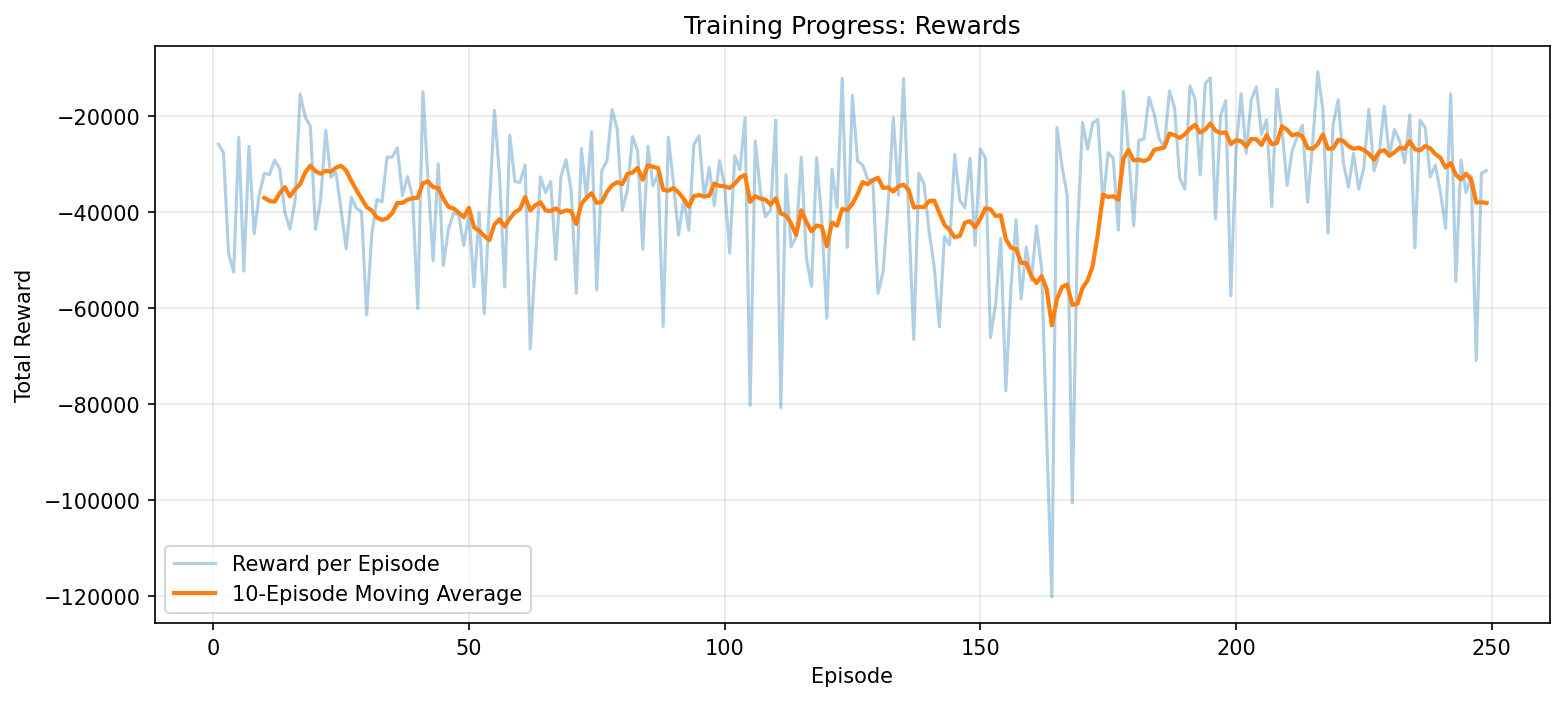
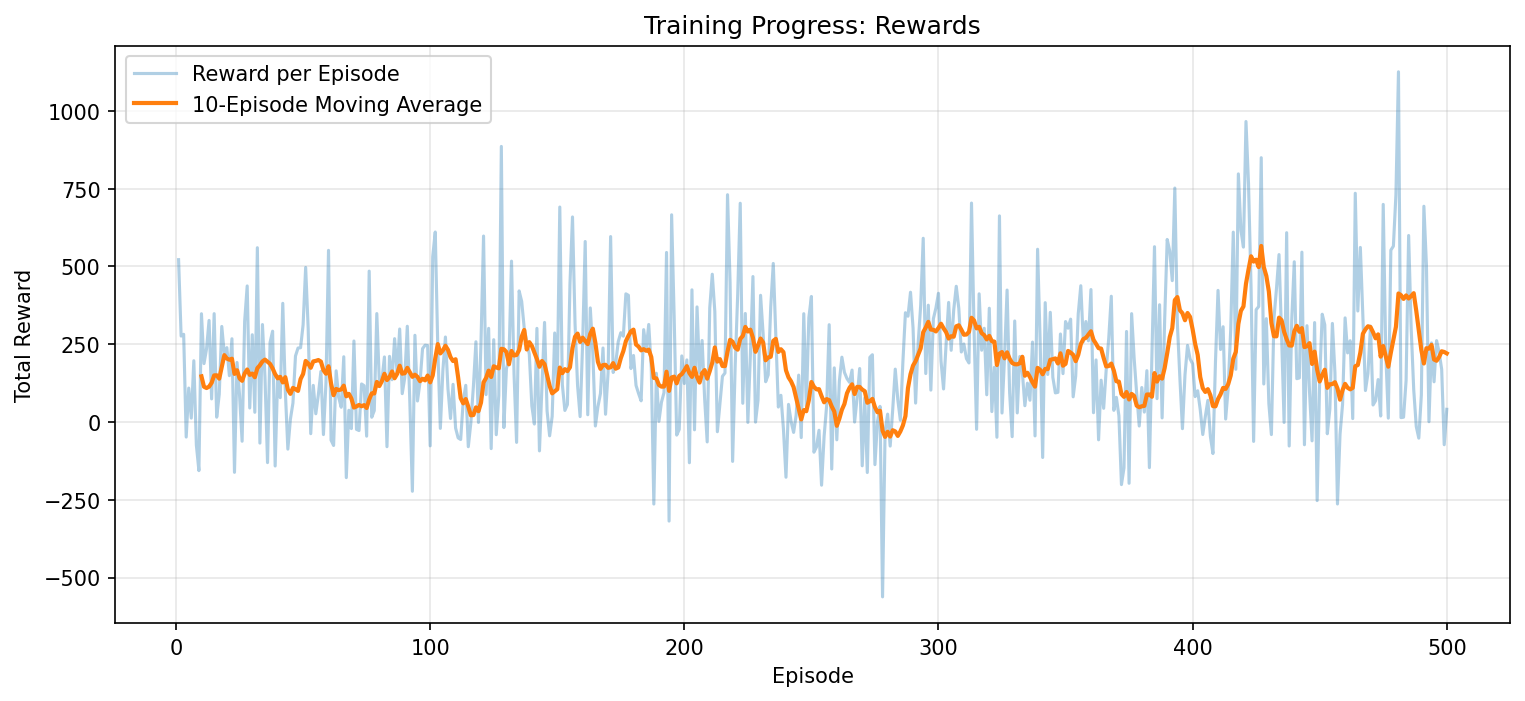
Reduce the number of rays generated in the ray fan from 20 to 8 for improved performance and update reward computation to include wall and obstacle penalties.

diff --git a/Initial.py b/Initial.py
@@ -110,7 +110,7 @@ def calculate_relative_newdistance(x1, y1, x2, y2):
 def calculate_relative_angle(x1, y1, x2, y2):
     return np.arctan2(y2 - y1, x2 - x1)
 
-def generate_rays_fan(view_position, direction, fov, num=20):
+def generate_rays_fan(view_position, direction, fov, num=8):
     angles = np.linspace(-fov/2, fov/2, num=num) + direction
 
     rays = np.empty((angles.shape[0], 2, 2))
@@ -411,7 +411,7 @@ def get_state(fish_x, fish_y, fish_heading, shark_x, shark_y, school, self_fish=
 
     # Rays are ALWAYS computed from this fish's own position.
     # Other fish are added as obstacles (excluding self) so the fish can sense them.
-    rays = generate_rays_fan((fish_x, fish_y), fish_heading, fov=math.pi / 2, num=20)
+    rays = generate_rays_fan((fish_x, fish_y), fish_heading, fov=math.pi / 2, num=8)
     segments = segments_from_box((BOX_MARGIN, BOX_MARGIN), (WIDTH - BOX_MARGIN, HEIGHT - BOX_MARGIN))
     shark_segments = segments_from_shark((shark_x, shark_y), calculate_relative_angle(fish_x, fish_y, shark_x, shark_y))
     segments.extend(shark_segments)
@@ -427,9 +427,9 @@ def get_state(fish_x, fish_y, fish_heading, shark_x, shark_y, school, self_fish=
     intersections = raycast_rays_segments(rays, segments)
     closest_intersections = closest_intersection_from_raycast_rays_segments(intersections)
     ray_distances = np.linalg.norm(closest_intersections - np.array([fish_x, fish_y]), axis=1)
-    # Pad ray_distances to ensure consistent size (20 rays)
-    if len(ray_distances) < 20:
-        ray_distances = np.concatenate([ray_distances, np.full(20 - len(ray_distances), np.inf)])
+    # Pad ray_distances to ensure consistent size (8 rays)
+    if len(ray_distances) < 8:
+        ray_distances = np.concatenate([ray_distances, np.full(8 - len(ray_distances), np.inf)])
                                                             
     return np.array([distance, angle, velocity, distance_from_top_wall, distance_from_bottom_wall, distance_from_left_wall, distance_from_right_wall, *ray_distances], dtype=np.float32)
 
@@ -466,33 +466,47 @@ def check_collision(fish_x, fish_y, shark_x, shark_y):
 #Give an extra reward every 250 frames for surviving
 #Upon death, reset the fish to the center of the screen and reset the shark to a random position
 #Penalise the fish for going out of bounds, and reward it for staying within the box
+#Add smoothing reward so that the fish is penalised for getting too clouse to shark and to walls, and rewarded for staying away from them
 def compute_reward(fish_x, fish_y, shark_x, shark_y, prev_distance, ray_distances):
     distance = calculate_relative_distance(fish_x, fish_y, shark_x, shark_y)
-    
+
     # Handle NaN/inf in ray distances
     ray_distances = np.array(ray_distances)
     ray_distances = ray_distances[np.isfinite(ray_distances)]
-    
-    if len(ray_distances) == 0:
-        min_ray = float('inf')
-    else:
-        min_ray = np.min(ray_distances)
-    
-    # Collision penalties (clipped to keep Q-values stable)
+    min_ray = np.min(ray_distances) if len(ray_distances) > 0 else float('inf')
+
+    # Minimum distance to any of the 4 walls
+    wall_distance = min(fish_x - BOX_MARGIN, WIDTH - BOX_MARGIN - fish_x,
+                        fish_y - BOX_MARGIN, HEIGHT - BOX_MARGIN - fish_y)
+
+    # Terminal events: caught by shark or fully out of bounds
     if distance < 50:
-        return -10.0  # Shark collision
-    if min_ray < 10:
-        return -5.0   # Too close to obstacle (wall or shark)
-    
-    # Shaped reward: reward INCREASING distance from the shark (delta).
-    # This breaks the "stay still in the centre" local optimum, because if the
-    # fish does nothing the shark keeps approaching and delta goes negative.
+        return -10.0
+    if wall_distance < 0:
+        return -10.0
+
+    # Smooth wall penalty: only kicks in within 40px of a wall, gentle slope.
+    # This gives gradual warning without penalising most of the box.
+    wall_penalty = 0.0
+    if wall_distance < 40:
+        wall_penalty = (40 - wall_distance) * 0.02  # max ~0.8 at the wall
+
+    # Smooth obstacle penalty from rays (shark body / other fish)
+    obstacle_penalty = 0.0
+    if min_ray < 20:
+        obstacle_penalty = (20 - min_ray) * 0.03  # max ~0.6
+
+    # Shark avoidance: reward INCREASING distance from the shark (delta).
+    # This is the main positive learning signal; scaled up so fleeing pays off.
     delta = distance - prev_distance
-    reward = delta * 0.3 # Scale the reward to keep it in a reasonable range
-    
-    # Tiny survival bonus to encourage longer episodes
-    reward += 0.10 # Increase this to 0.1 to encourage longer survival
-    
+    shark_reward = delta * 0.3
+
+    # Small survival bonus (kept modest so avoidance dominates learning).
+    survival = 0.15
+
+    reward = shark_reward - wall_penalty - obstacle_penalty + survival
+    # Clip total reward to keep Q-values bounded and training stable.
+    reward = max(-10.0, min(2.0, reward))
     return reward
 
 #A function for the shark to track the fish, stochastically, not too fast.
@@ -558,10 +572,14 @@ def plot_scores(episode_scores, episode_losses):
 
 
     if len(episode_losses) >= window:
-        loss_ma = np.convolve(episode_losses, np.ones(window) / window, mode='valid')
-        loss_x = np.arange(window, len(episode_losses) + 1)
+        # episode_losses may be longer than episode_scores (appended per step).
+        # Align by taking the tail so x/y dimensions match for plotting.
+        n_scores = len(episode_scores)
+        losses_plot = episode_losses[-n_scores:] if len(episode_losses) >= n_scores else episode_losses
+        loss_ma = np.convolve(losses_plot, np.ones(window) / window, mode='valid')
+        loss_x = np.arange(window, len(losses_plot) + 1)
         plt.figure(figsize=(10, 5))
-        plt.plot(episodes, episode_losses, alpha=0.35, label='Loss per Episode')
+        plt.plot(np.arange(1, len(losses_plot) + 1), losses_plot, alpha=0.35, label='Loss per Episode')
         plt.plot(loss_x, loss_ma, linewidth=2, label=f'{window}-Episode Moving Average')
         plt.title('Training Progress: Loss')
         plt.xlabel('Episode')
@@ -588,6 +606,9 @@ def step(state, action, fish_x, fish_y, fish_heading, shark_x, shark_y, school, 
     elif action == 4: #speed up
         fish_x += fish_speed * math.cos(fish_heading)
         fish_y += fish_speed * math.sin(fish_heading)
+    elif action == 5: #move backwards
+        fish_x -= fish_speed * math.cos(fish_heading)
+        fish_y -= fish_speed * math.sin(fish_heading)
 
     # Calculate the new state and reward
     new_state = get_state(fish_x, fish_y, fish_heading, shark_x, shark_y, school, self_fish)
@@ -631,8 +652,8 @@ def nearest_alive_fish(school, shark_x, shark_y):
 #Need to make training faster, so we will run multiple environmental updates per frame
 #Multiple training steps per frame, and multiple environment updates per frame, to speed up training
 def main():
-    action_space = 5
-    state_space = 27  # 7 base features + 20 ray distances
+    action_space = 6
+    state_space = 15  # 7 base features + 8 ray distances
     agent = DQNAgent(state_size=state_space, action_size=action_space)
 
     scores_window = deque(maxlen=100)
@@ -653,6 +674,8 @@ def main():
     running = True
     episode_return = 0
     episode_count = 0
+    episode_loss_sum = 0.0
+    episode_loss_steps = 0
    
     class Fish:
         def __init__(self, x, y, heading):
@@ -678,7 +701,8 @@ def main():
                 agent.memory.add(state, action, reward, next_state, done)
                 loss = agent.learn()
                 if loss is not None:
-                    episode_losses.append(loss)
+                    episode_loss_sum += loss
+                    episode_loss_steps += 1
                 if done:
                     fish.alive = False
 
@@ -700,13 +724,17 @@ def main():
             if all(not fish.alive for fish in school):
                 episode_count += 1
                 scores_window.append(episode_return)
-                episode_scores.append(episode_return)
+                # Append ONE loss value per episode (mean over the episode's steps)
+                if episode_loss_steps > 0:
+                    episode_losses.append(episode_loss_sum / episode_loss_steps)
+                episode_loss_sum = 0.0
+                episode_loss_steps = 0
                 if episode_count > 0 and episode_count % 50 == 0:
                     avg_score = np.mean(scores_window) if len(scores_window) > 0 else 0
-                    avg_loss = np.mean(episode_losses[-100:]) if episode_losses else 0
+                    avg_loss = episode_losses[-1] if episode_losses else 0
                     print(f'Episode {episode_count}: Avg Score={avg_score:.2f}, Loss={avg_loss:.4f}, Epsilon={agent.epsilon:.4f}')
 
-                if episode_count >= 250 and episode_count % 250 == 0:
+                if episode_count >= 500 and episode_count % 500 == 0:
                     plot_scores(episode_scores, episode_losses)
                 agent.decay_epsilon()
                 episode_return = 0
@@ -721,16 +749,6 @@ def main():
         
 
 
-        # Build segments for raycasting: box + shark + other fish
-        segments = segments_from_box((BOX_MARGIN, BOX_MARGIN), (WIDTH - BOX_MARGIN, HEIGHT - BOX_MARGIN))
-        shark_segments = segments_from_shark((shark_x, shark_y), shark_heading)
-        segments.extend(shark_segments)
-        for fish in school:
-            if fish.alive:
-                fish_segments = segments_from_other_fish((fish.x, fish.y), fish.heading)
-                segments.extend(fish_segments)
-        segments = np.array(segments, dtype=float)
-
         screen.fill(BG_COLOR)
         pygame.draw.rect(
             screen,
@@ -743,9 +761,20 @@ def main():
         for fish in school:
             if fish.alive:
                 draw_fish(screen, (fish.x, fish.y), fish.heading)
-                # Draw THIS fish's rays from its own position
-                rays = generate_rays_fan((fish.x, fish.y), fish.heading, fov=math.pi / 2, num=20)
-                intersections = raycast_rays_segments(rays, segments)
+                # Build a per-fish segment list that excludes the fish itself.
+                fish_segments = segments_from_box((BOX_MARGIN, BOX_MARGIN), (WIDTH - BOX_MARGIN, HEIGHT - BOX_MARGIN))
+                shark_segments = segments_from_shark((shark_x, shark_y), shark_heading)
+                fish_segments.extend(shark_segments)
+                for other_fish in school:
+                    if not other_fish.alive or other_fish is fish:
+                        continue
+                    other_segments = segments_from_other_fish((other_fish.x, other_fish.y), other_fish.heading)
+                    fish_segments.extend(other_segments)
+                fish_segments = np.array(fish_segments, dtype=float)
+
+                # Draw THIS fish's rays from its own position.
+                rays = generate_rays_fan((fish.x, fish.y), fish.heading, fov=math.pi / 2, num=8)
+                intersections = raycast_rays_segments(rays, fish_segments)
                 closest_intersections = closest_intersection_from_raycast_rays_segments(intersections)
                 for intersection in closest_intersections:
                     pygame.draw.line(